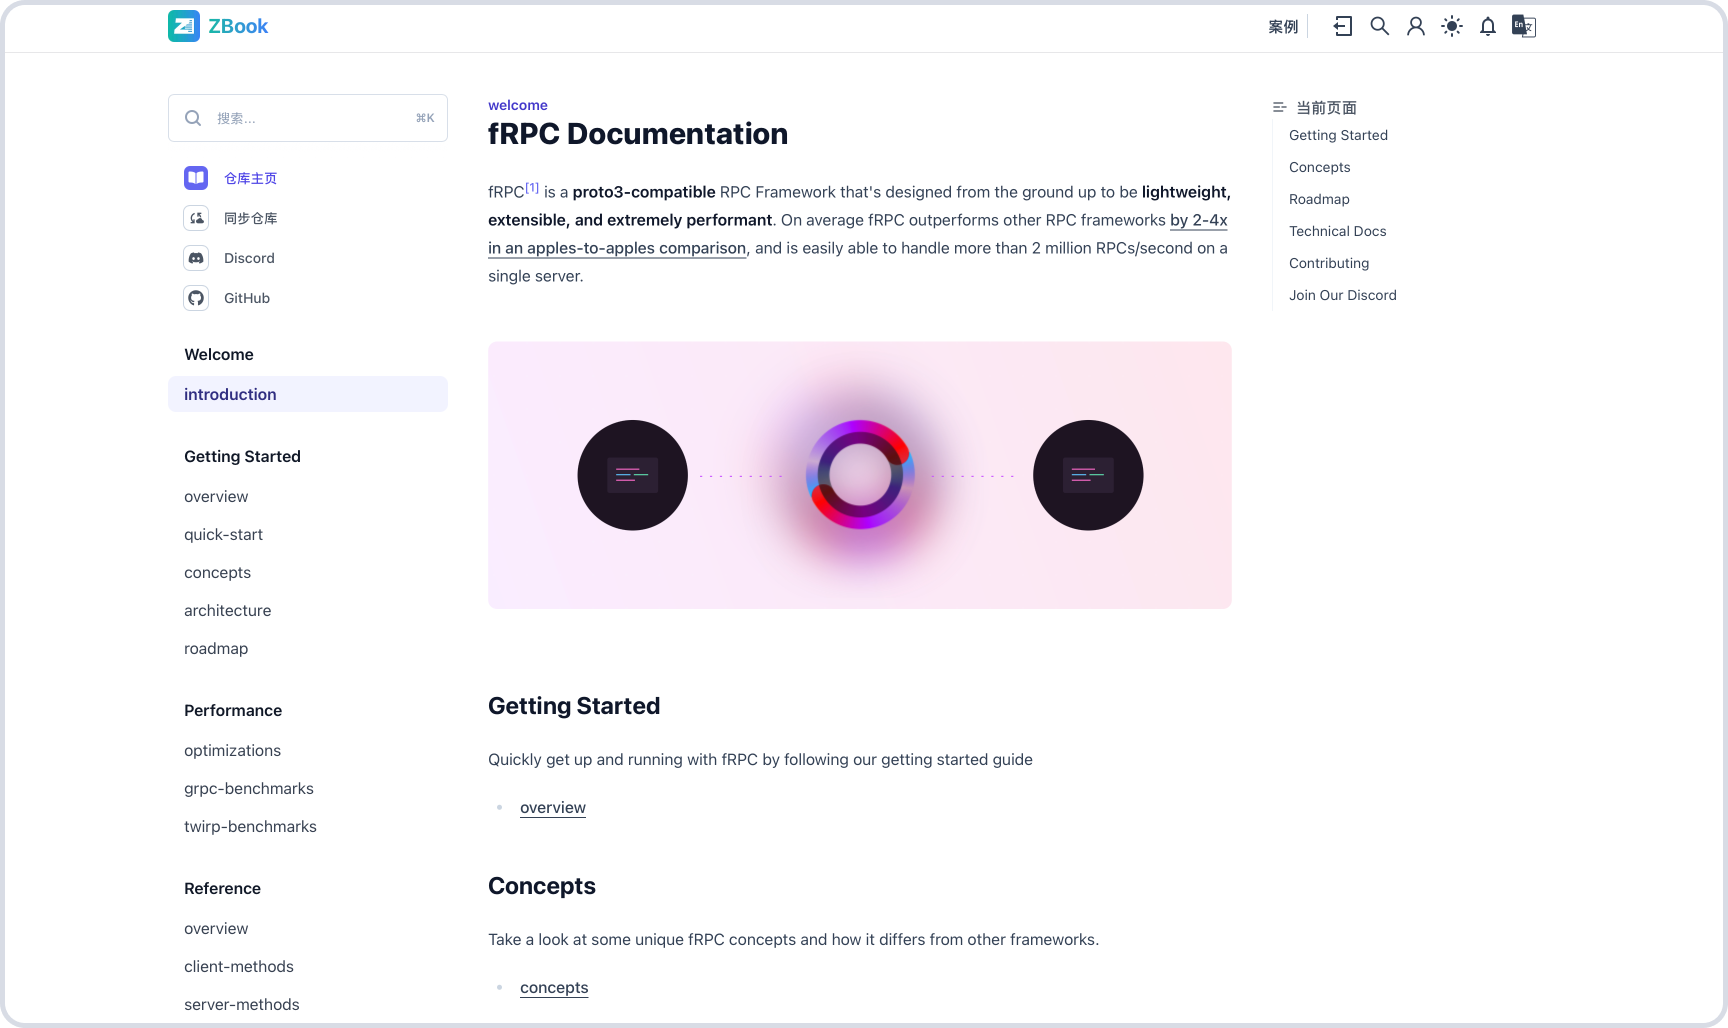
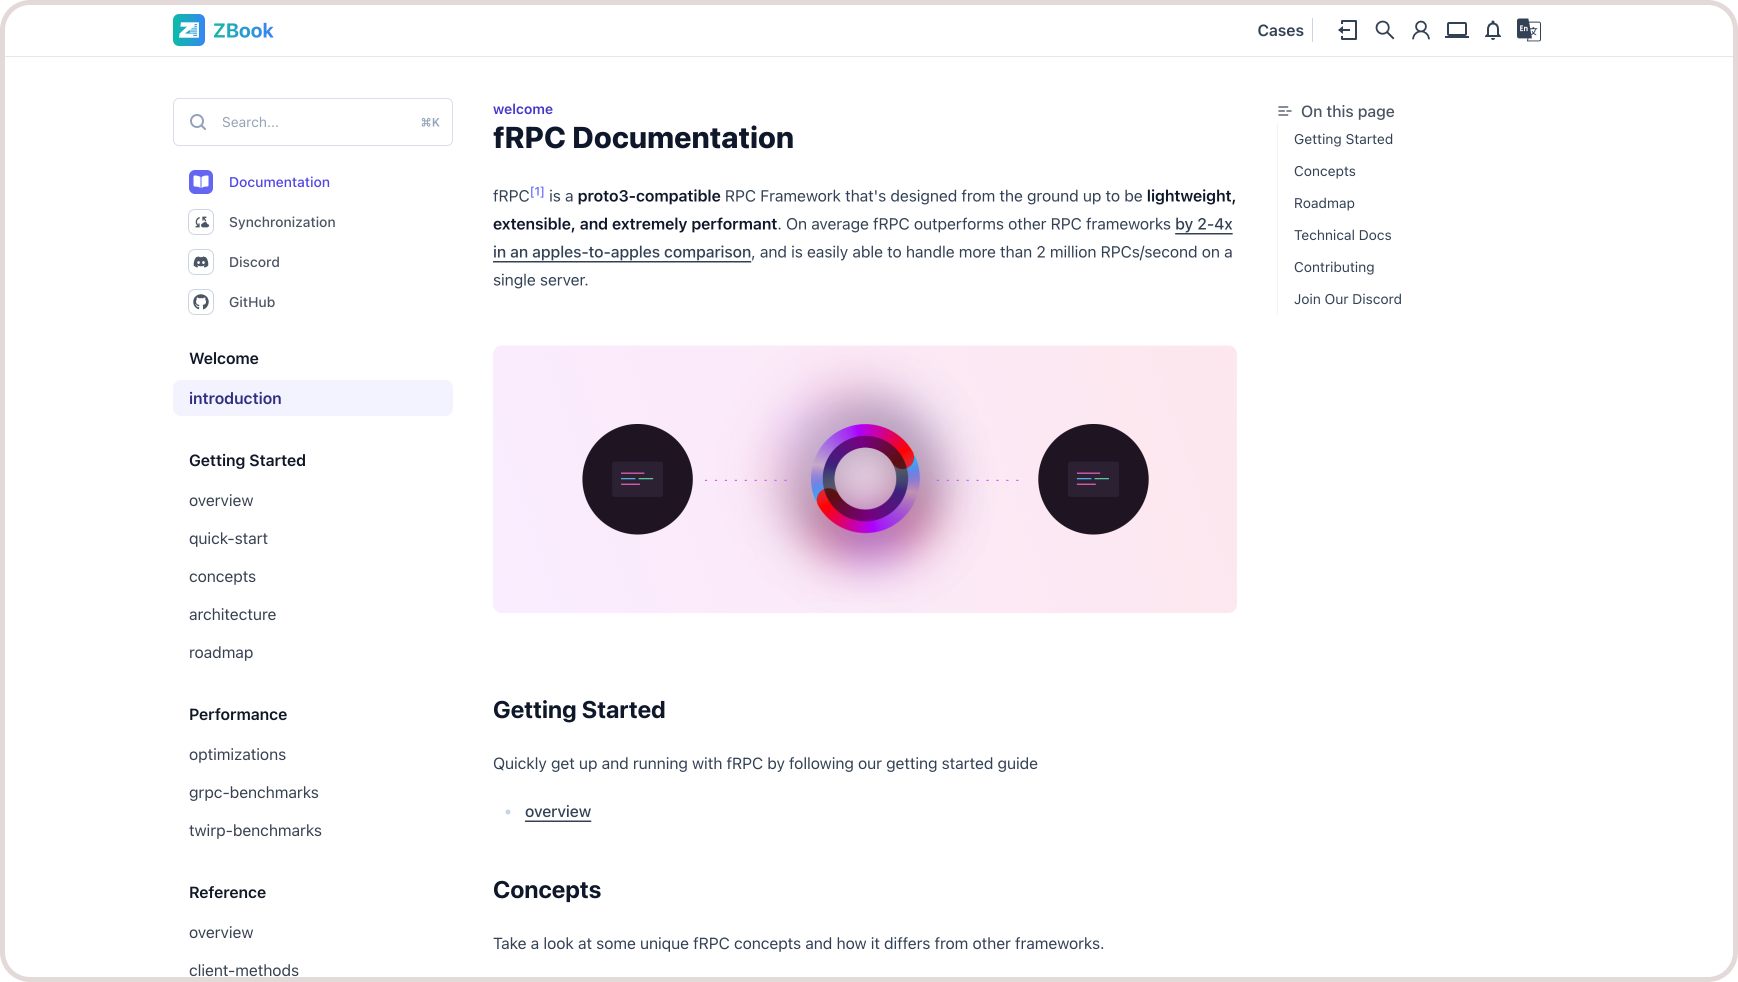
udpate images for en version

diff --git a/Features/Notification.md b/Features/Notification.md
@@ -2,17 +2,17 @@
 
 ZBook uses `websockets` to push notifications to users, covering various aspects such as `system`, `repository`, `followers`, and `comments`. System notifications are primarily sent by the system or administrators. For repositories, if another user (User A) follows a user (User B), User A will receive a notification if User B creates a visible repository. Similarly, `follower notifications` inform User B when someone (User A) follows them. Comment notifications alert User A when another user (User B) comments on User A's repository or comments under User A's posts.
 
-![Notifications](./assets/通知.png)
+![Notifications](./assets/notification.png)
 
 ## System Notifications
 
 Currently, when a new user registers, they receive a welcome system notification containing a link with usage instructions. Additionally, administrators can send system notifications. Specifically, administrators can click to create a new system notification in their user sidebar, fill in the details in the popup, and confirm.
 
-| Parameter | Description                               |
-| --------- | ----------------------------------------- |
-| Title     | Notification title                        |
-| Username  | The user to be notified                   |
+| Parameter | Description                                                      |
+| --------- | ---------------------------------------------------------------- |
+| Title     | Notification title                                               |
+| Username  | The user to be notified                                          |
 | Link      | Optional; if provided, the user will be redirected upon clicking |
-| Content   | The content of the notification           |
+| Content   | The content of the notification                                  |
 
-![System Notifications](./assets/通知.gif)
+![System Notifications](./assets/system_notification.gif)

diff --git a/Features/Core Features.md b/Features/Core Features.md
@@ -2,7 +2,7 @@
 
 ZBook supports multi-user management, allowing users with different roles to perform operations based on their permissions. Each user can independently create or manage their own repositories, edit personal information, view access analytics, and link third-party accounts (such as GitHub, GitLab, etc.). Administrators can assign different permission levels to ensure secure access and manage the core functions of the site. The flexible multi-user functionality is suitable for individual developers, team collaboration, and large organizations, providing an efficient management experience for users.
 
-![Multi-User](./assets/多用户.png)
+![repos](./assets/repos.png)
 
 ZBook offers simple Markdown repository rendering, supports various theme styles, colors, multi-language support, night mode, and full-text search in multiple languages.
 
